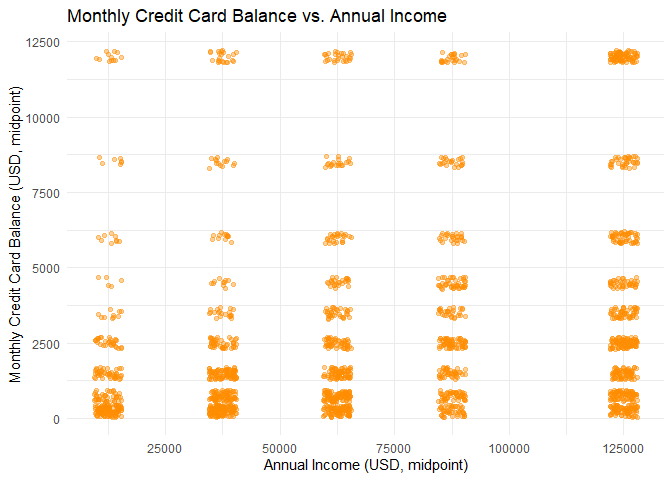
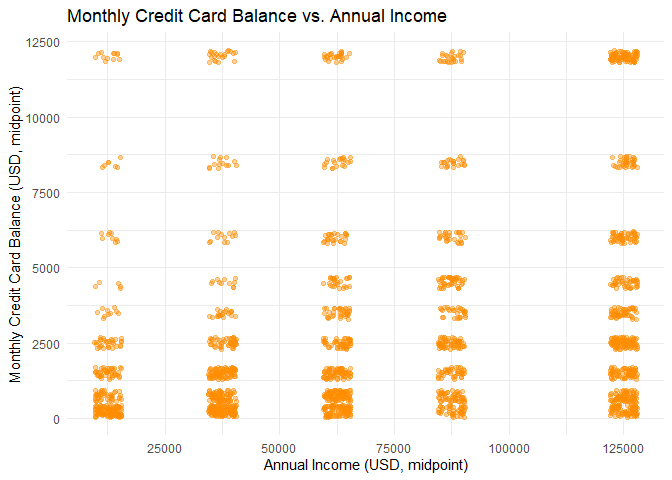
Add the centroides

diff --git a/Customer-Segmentation-Analysis.md b/Customer-Segmentation-Analysis.md
@@ -717,6 +717,46 @@ ggplot(df_complete, aes(x = cluster, y = balance_num, fill = cluster)) +
 
 ![](Customer-Segmentation-Analysis_files/figure-gfm/segment-boxplot-1.png)<!-- -->
 
+**Scatter plot with centroids overlaid**
+
+``` r
+# Cluster centers come out in standardized (scaled) units, so we convert them
+# back to original dollar values to plot them on the same axes as the real data
+center_scaled <- as.data.frame(km_final$centers)
+scale_center <- attr(X_scaled, "scaled:center")
+scale_scale  <- attr(X_scaled, "scaled:scale")
+
+centers_original <- data.frame(
+  cluster = factor(1:4),
+  balance_num = center_scaled$balance_num * scale_scale["balance_num"] + scale_center["balance_num"],
+  income_num  = center_scaled$income_num  * scale_scale["income_num"]  + scale_center["income_num"]
+)
+
+centers_original
+```
+
+    ##   cluster balance_num income_num
+    ## 1       1    1314.441   27639.75
+    ## 2       2    2085.592   73412.98
+    ## 3       3   10714.545   88545.45
+    ## 4       4    2368.143  125000.00
+
+**Visualize it**
+
+``` r
+ggplot(df_complete, aes(x = income_num, y = balance_num, color = cluster)) +
+  geom_jitter(alpha = 0.35, width = 3000, height = 200, size = 1.6) +
+  geom_point(data = centers_original, aes(x = income_num, y = balance_num),
+             color = "black", shape = 8, size = 5, stroke = 1.5) +
+  labs(title = "Customer Segments with Cluster Centroids",
+       subtitle = "Black stars mark the centroid (center) of each segment",
+       x = "Annual Income (USD, midpoint)", y = "Monthly Credit Card Balance (USD, midpoint)",
+       color = "Segment") +
+  theme_minimal()
+```
+
+![](Customer-Segmentation-Analysis_files/figure-gfm/centroids-plot-1.png)<!-- -->
+
 ## Why k = 4, and What It Reveals
 
 We selected **k = 4** primarily using the elbow method: the improvement
@@ -850,3 +890,66 @@ affect how representative these segments are of the full customer base.
 Future work could expand this segmentation with additional variables
 (e.g. savings, financial lifestyle, device ownership) to build richer,
 more nuanced customer profiles.
+
+# Step 1 (Review): Why We Selected Q03 and D11
+
+## The Decision
+
+We selected two financial variables for segmentation:
+
+- **`Q03`** – Monthly credit card balance (a *behavioral* variable: what
+  customers actually do)
+- **`D11`** – Annual income (a *demographic/capacity* variable: what
+  customers are financially able to do)
+
+## How We Got There
+
+Before choosing these two, we built a full codebook of all 89 survey
+columns and grouped them into 13 categories (Payment Methods, Credit
+Card Usage, BNPL Behavior, Card Choice Importance, Device Ownership,
+Demographics, etc.). This gave us visibility into the full landscape of
+candidate variables – credit score, savings, financial lifestyle, device
+ownership, payment method diversity, and more – rather than picking the
+first two variables that seemed reasonable.
+
+We narrowed to `Q03` and `D11` for three concrete reasons:
+
+**1. Data quality and completeness.** Both variables came from the same
+“later” block of the survey (the point where roughly half of respondents
+had dropped off), giving us exactly the same 2,094 complete-case
+respondents for both – no additional data loss from combining variables
+with different missingness patterns. We confirmed this directly: `Q03`
+and `D11` had identical overlap (2,094 of 2,094 cases matched exactly),
+meaning pairing them didn’t cost us any extra sample size beyond what
+either variable required on its own.
+
+**2. Behavioral variable + capacity variable, not two of the same
+thing.** Rather than choosing two variables that likely measure the same
+underlying concept (e.g. income and savings, which tend to move
+together), we deliberately paired a *behavior* variable (what a customer
+actually spends via credit card) with a *capacity* variable (what a
+customer earns). We confirmed this distinction empirically: the
+correlation between `Q03` and `D11` was only **0.25** – weak enough to
+show they capture genuinely different information, not so weak that
+they’re unrelated. This is exactly the situation where clustering on
+both together adds value beyond either variable alone: two customers
+with similar income can still land in very different segments based on
+their actual balance behavior (as we saw with Segments 3 and 4).
+
+**3. Direct relevance to marketing goals.** Both variables map cleanly
+onto standard financial-services marketing questions: *who has money*
+(income) and *who is actively using credit* (balance). Combined, they
+let a business distinguish, for example, a high-income customer who
+revolves a large balance (a strong candidate for a rewards or
+balance-transfer offer) from a similarly high-income customer who
+carries almost no balance (better suited to a different kind of product
+messaging entirely) – a distinction income alone could never reveal.
+
+## What We Considered and Set Aside
+
+Other candidates from the codebook – credit score (`C1`), savings
+(`D16`), and self-reported financial lifestyle (`D15`) – were reasonable
+alternatives, but `Q03` and `D11` were prioritized because they offered
+the clearest behavior-vs-capacity contrast with no added missing-data
+cost, and the most direct, easily explainable link to a marketing
+action.
